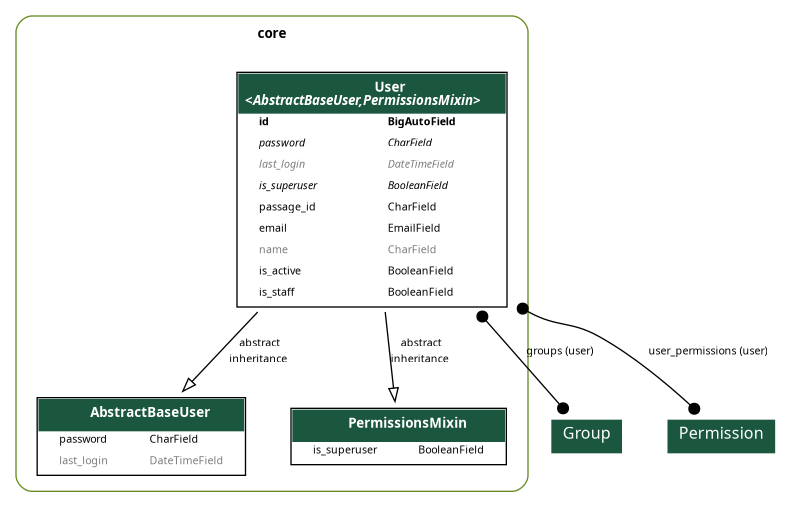
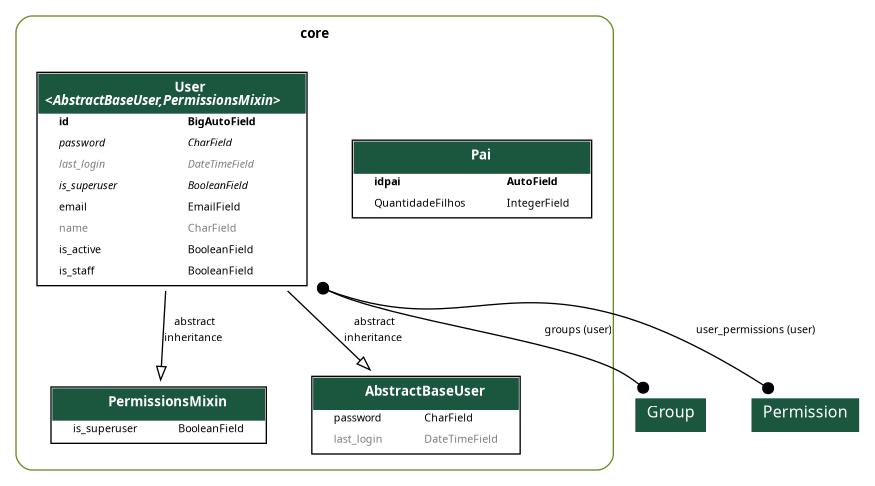
feat: criação da model de Pai(por enquanto sem Users por completo)

diff --git a/core/migrations/0006_pai.py b/core/migrations/0006_pai.py
@@ -1,0 +1,20 @@
+# Generated by Django 5.2.12 on 2026-04-21 14:27
+
+from django.db import migrations, models
+
+
+class Migration(migrations.Migration):
+
+    dependencies = [
+        ('core', '0005_remove_user_passage_id'),
+    ]
+
+    operations = [
+        migrations.CreateModel(
+            name='Pai',
+            fields=[
+                ('idpai', models.AutoField(primary_key=True, serialize=False)),
+                ('QuantidadeFilhos', models.IntegerField()),
+            ],
+        ),
+    ]

diff --git a/core/models/pai.py b/core/models/pai.py
@@ -1,0 +1,5 @@
+from django.db import models
+
+class Pai(models.Model):
+    idpai = models.AutoField(primary_key=True)
+    QuantidadeFilhos = models.IntegerField()

diff --git a/core/admin.py b/core/admin.py
@@ -52,3 +52,4 @@ class UserAdmin(BaseUserAdmin):
 
 
 admin.site.register(models.User, UserAdmin)
+admin.site.register(models.Pai)

diff --git a/core/models/__init__.py b/core/models/__init__.py
@@ -1,1 +1,2 @@
 from .user import User
+from .pai import Pai